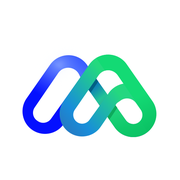
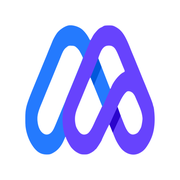
fix(pwa): PWA/主屏图标按市场分色，修国内显示国外绿标
原两个 manifest 都指向同一张蓝绿(国外)图，国内(默认)PWA/主屏图标错显为绿标，
且国内外无区别。改为分市场：国内=靛紫(app-icon)、国外=翠绿(global-logo)，
与 favicon 同一套 data-market 切换逻辑。apple-touch-icon 也按域名切。

- modelgo-pwa-icon.png 重做为国内靛紫；新增 -global.png 国外翠绿
- manifest-global 指向 -global 图；index.html .ai 域名切 apple-touch-icon-global

diff --git a/index.html b/index.html
@@ -20,6 +20,9 @@
           l.href = '/brand/modelgo-global-logo.svg'
           l.removeAttribute('media') // 国际标自带配色,明暗主题共用一份
         })
+        // apple-touch-icon 也随市场:国内靛紫(默认),国际翠绿
+        var at = document.querySelector('link[rel="apple-touch-icon"]')
+        if (at) at.href = '/brand/apple-touch-icon-global.png'
         // PWA 安装图标/名称同样随市场:构建注入的 manifest link 在本脚本之后,
         // DOMContentLoaded 后把它切到国际版 manifest(浏览器按需拉取,不早于此)
         window.addEventListener('DOMContentLoaded', function () {
